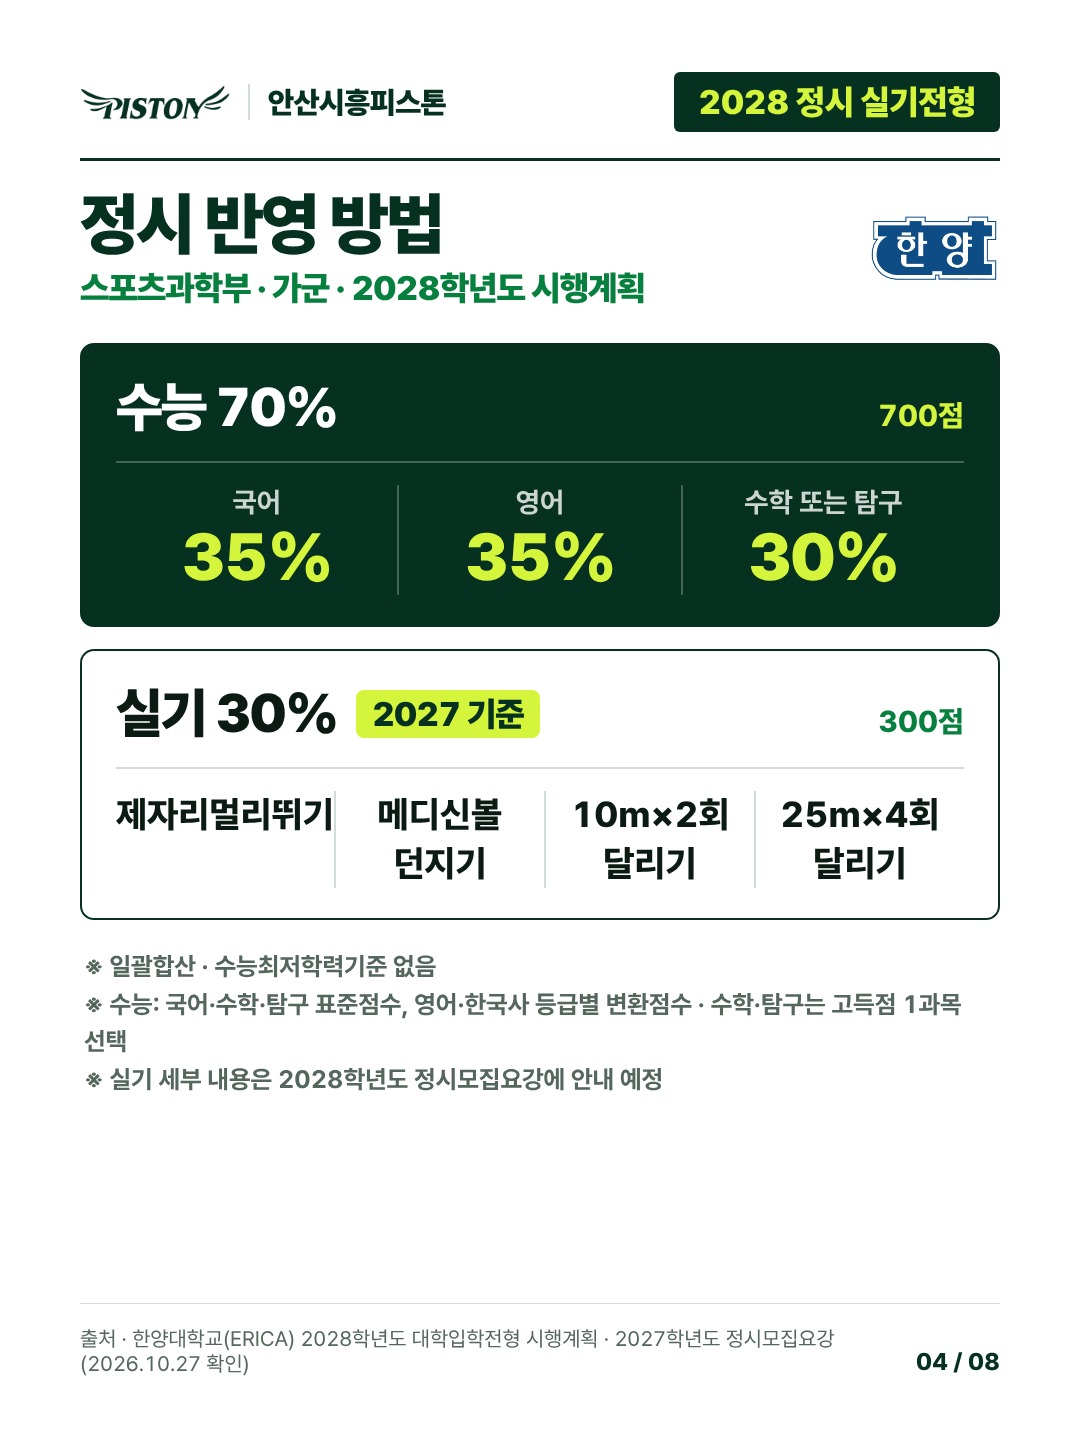
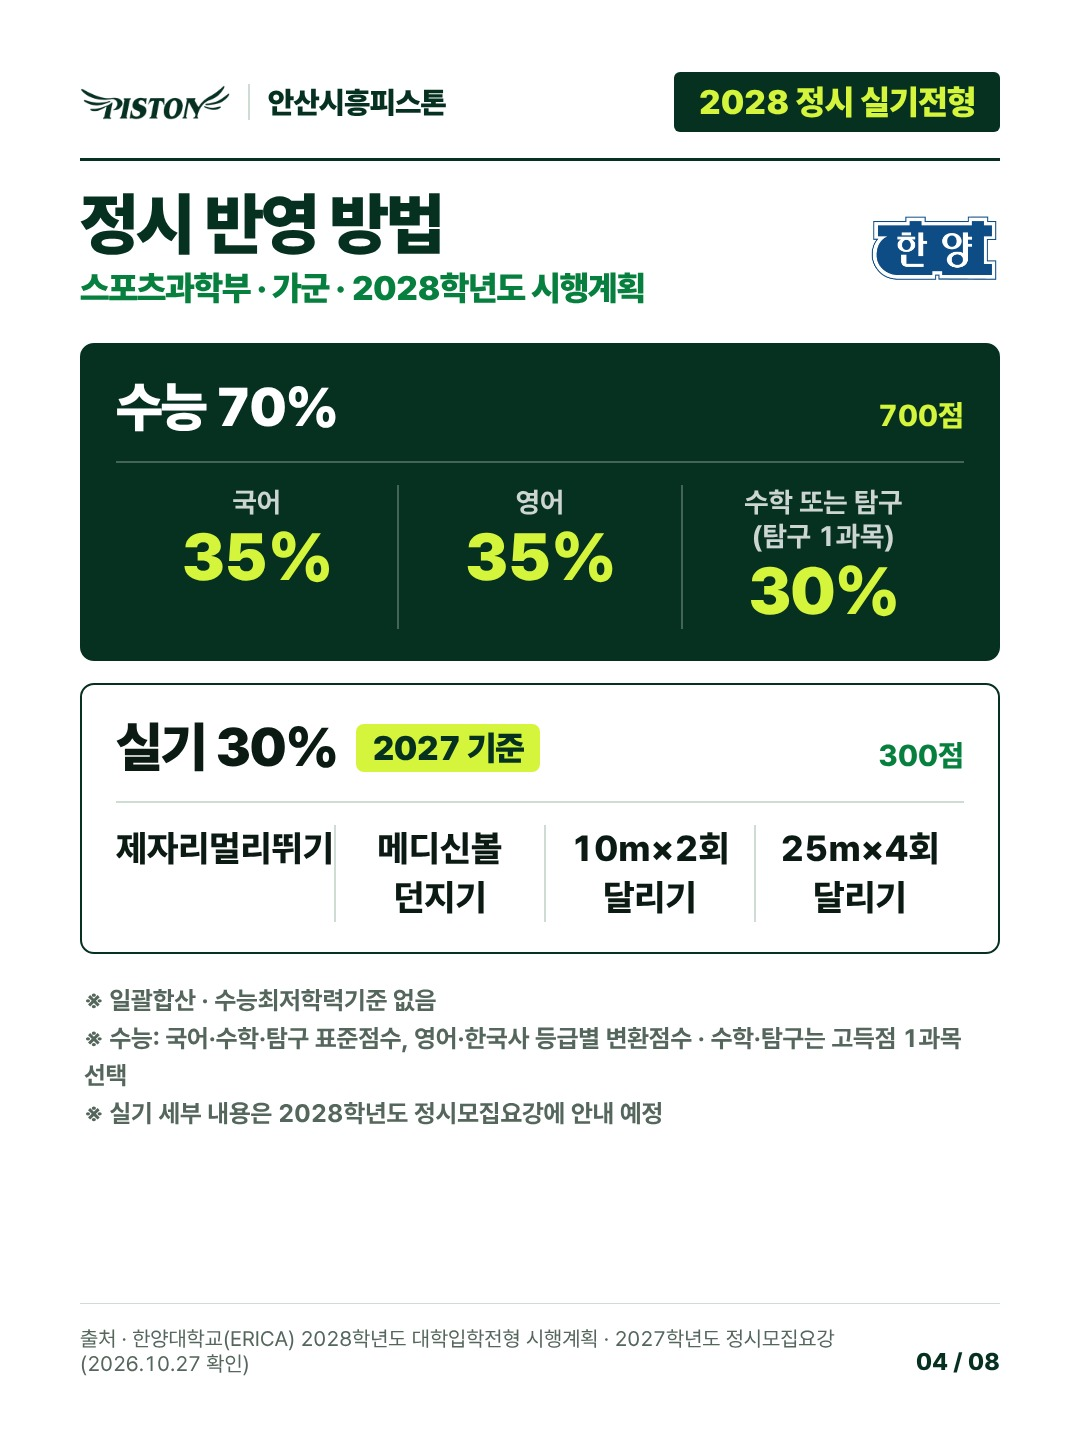
hanyang: 탐구 1과목 표시
Claude-Session: https://claude.ai/code/session_01EGTn7G8nWP1yv5M2jqmoFb

Changed region(s): [[0.0611, 0.3438, 0.9472, 0.7812]]

diff --git a/social/out/hanyang-erica-jeongsi-jeongsi/blog.md b/social/out/hanyang-erica-jeongsi-jeongsi/blog.md
@@ -27,7 +27,7 @@
 ## 정시 반영 방법 (스포츠과학부 · 가군 · 2028학년도 시행계획)
 | 구분 | 비율 · 점수 | 반영 내용 |
 | --- | --- | --- |
-| 수능 | 70% · 700점 | 국어 35% · 영어 35% · 수학 또는 탐구 30% |
+| 수능 | 70% · 700점 | 국어 35% · 영어 35% · 수학 또는 탐구 30% (탐구 1과목) |
 | 실기 | 30% · 300점 | 제자리멀리뛰기 · 메디신볼 던지기 · 10m×2회 달리기 · 25m×4회 달리기 |
 
 ※ 일괄합산 · 수능최저학력기준 없음
